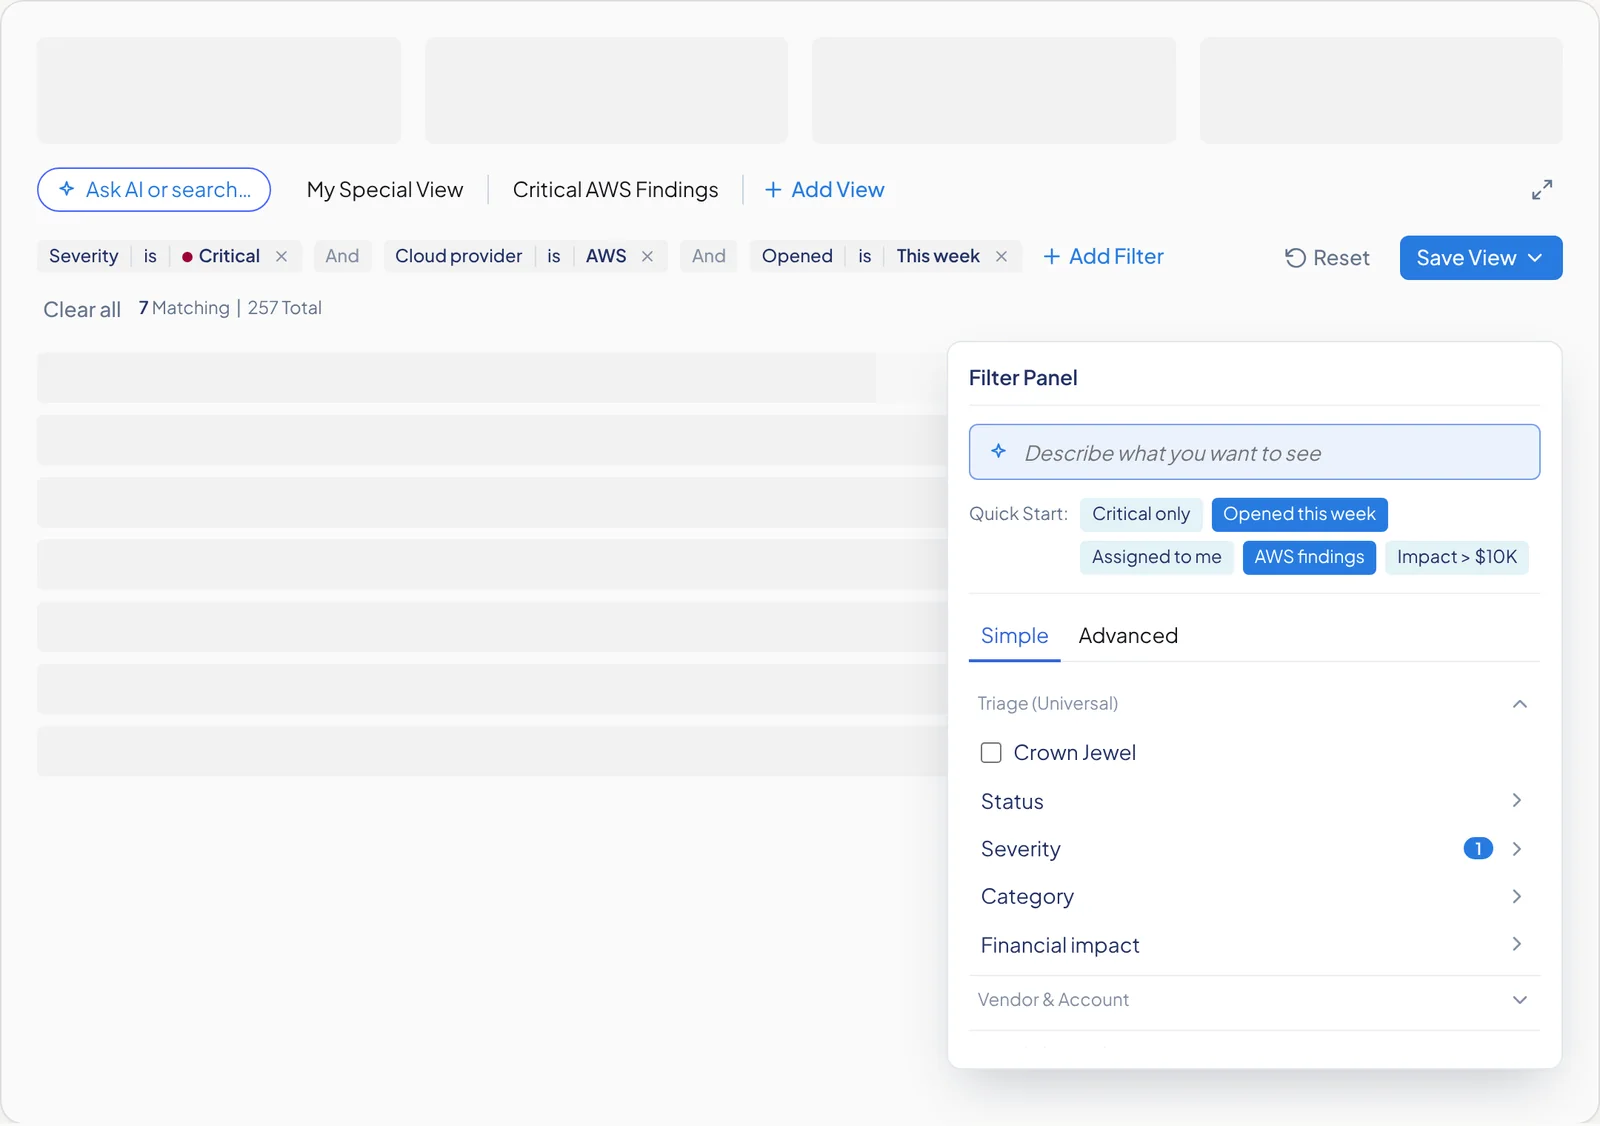
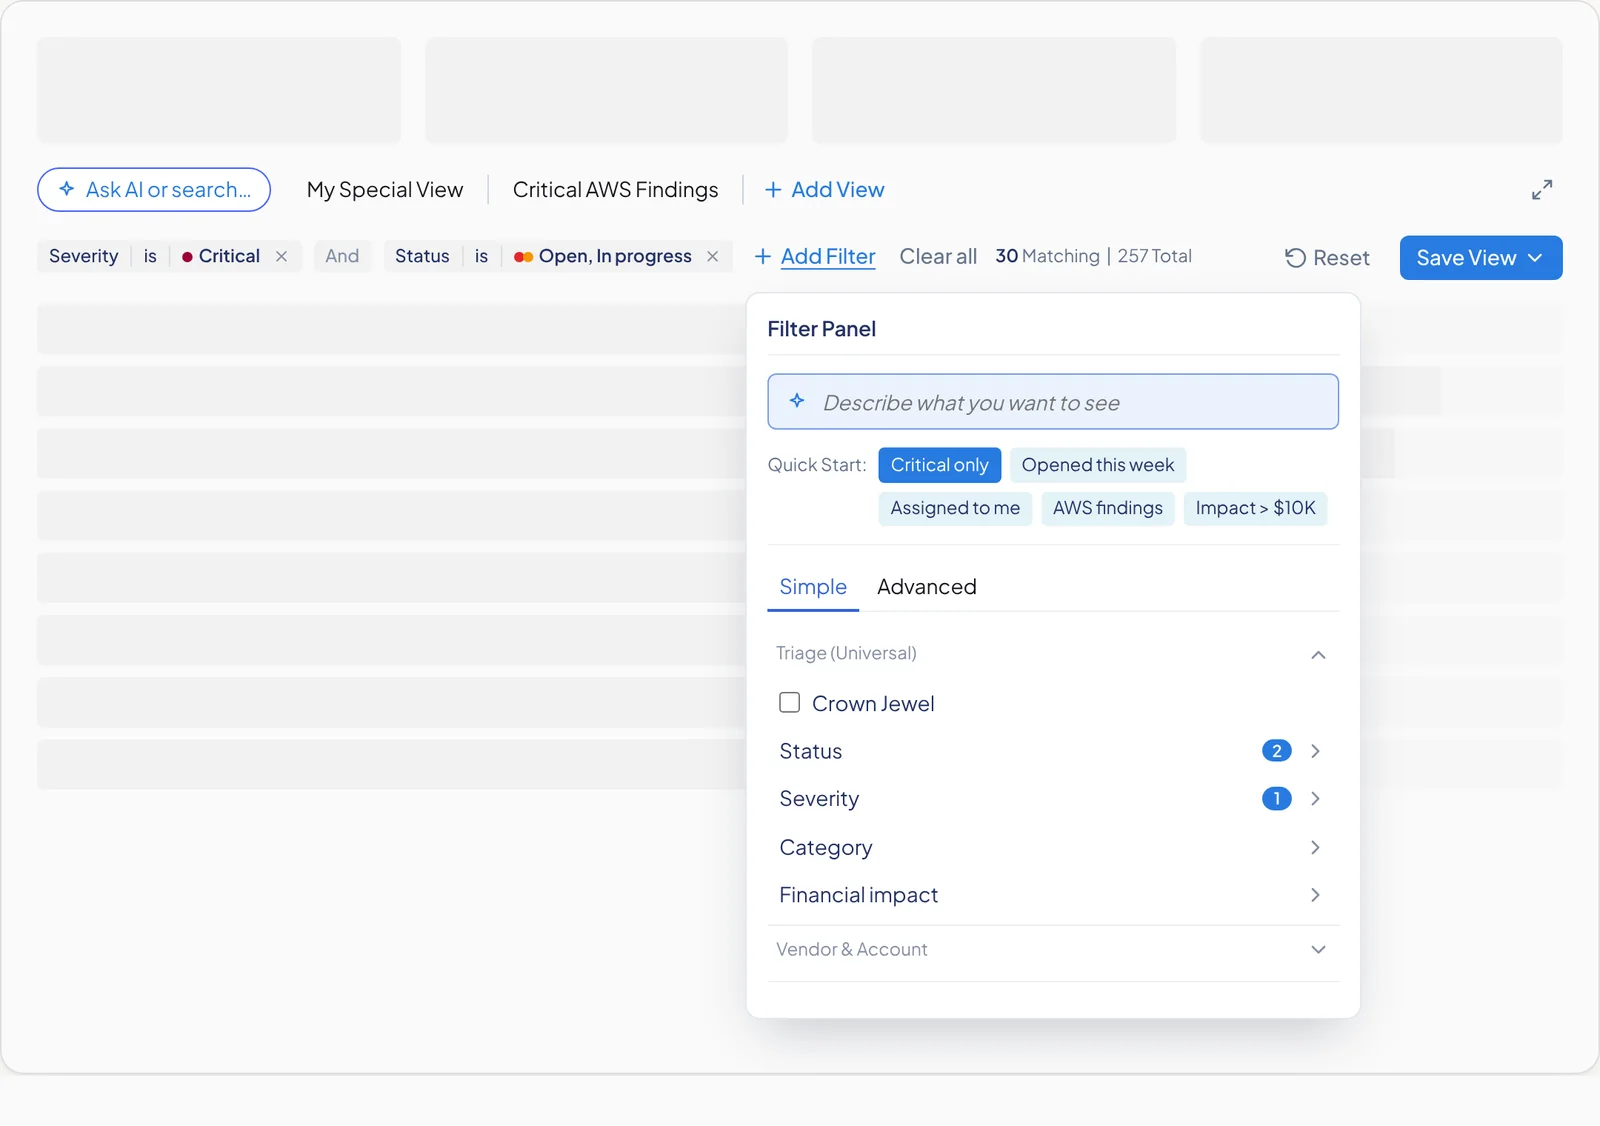
Filtering: clean Quick Start screen; panel never spills out of the prototype
Claude-Session: https://claude.ai/code/session_01U3LnkADmWK6BWBvsiVpdjW

diff --git a/CHANGELOG.md b/CHANGELOG.md
@@ -1,5 +1,13 @@
 # Changelog
 
+## 2026-10-14 — Filtering: Quick Start step fixed
+
+- The "Or a Quick Start" screen in the final flow was captured on top of the AI result, so
+  the panel showed the wrong chips highlighted. Recaptured from a clean state: Critical only
+  selected, its two filters (Severity is Critical + Status is Open, In progress) in the bar.
+- Prototype bug: picking a Quick Start grew the bar but not the frame, so the open panel
+  spilled out. The frame now re-measures after every change.
+
 ## 2026-10-14 — Filtering card: responsive AI moment
 
 - The Ask AI box now takes the full row while typing (saved views slide out of the way).
